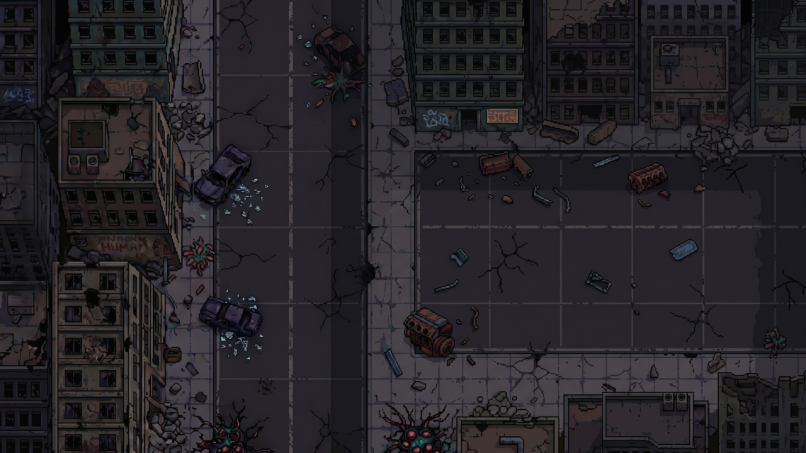
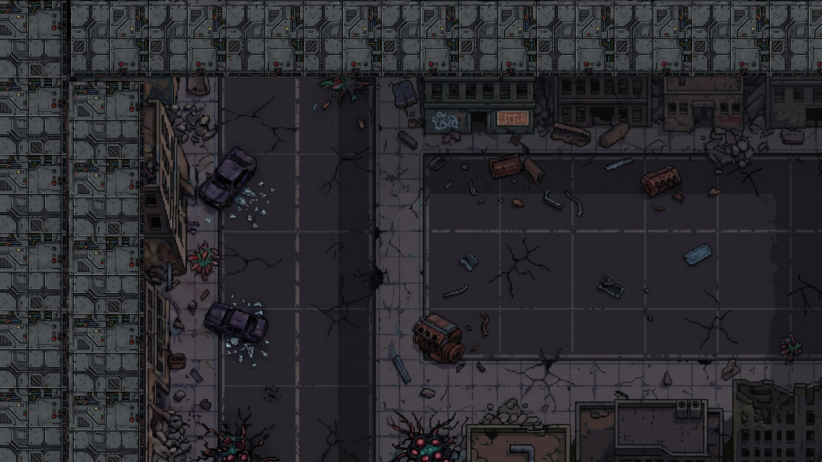
change assets

diff --git a/main.py b/main.py
@@ -37,9 +37,9 @@ class Game:
 
     # ---------------- MENU ----------------
     def start_menu(self):
-        play_button = pygame.transform.scale(self.assets["play_button"], (300, 100))
-        instruction_button = pygame.transform.scale(self.assets["instruction_button"], (300, 100))
-        title = pygame.transform.scale(self.assets["title"], (600, 300))
+        play_button = pygame.transform.scale(self.assets["play_button"], (300, 150))
+        instruction_button = pygame.transform.scale(self.assets["instruction_button"], (300, 150))
+        title = pygame.transform.scale(self.assets["title"], (950, 600))
         popup = pygame.transform.scale(self.assets["instruction"], (600, 660))
         exit_button = pygame.transform.scale(self.assets["exit_button"], (100, 50))
 

diff --git a/wall.py b/wall.py
@@ -10,7 +10,7 @@ class Wall:
         self.max_health = 1000
         self.health = self.max_health
 
-        self.image = load_image_alpha("game_world/wall.webp")
+        self.image = load_image_alpha("game_world/wall3.png")
         self.image = pygame.transform.scale(self.image, (self.width, self.height))
 
 

diff --git a/tilemap1.py b/tilemap1.py
@@ -215,4 +215,4 @@ class TileMap:
                     (x - self.cell_size//2, y - self.cell_size//2,
                      self.cell_size, self.cell_size),
                     2
-                )#
+                )
